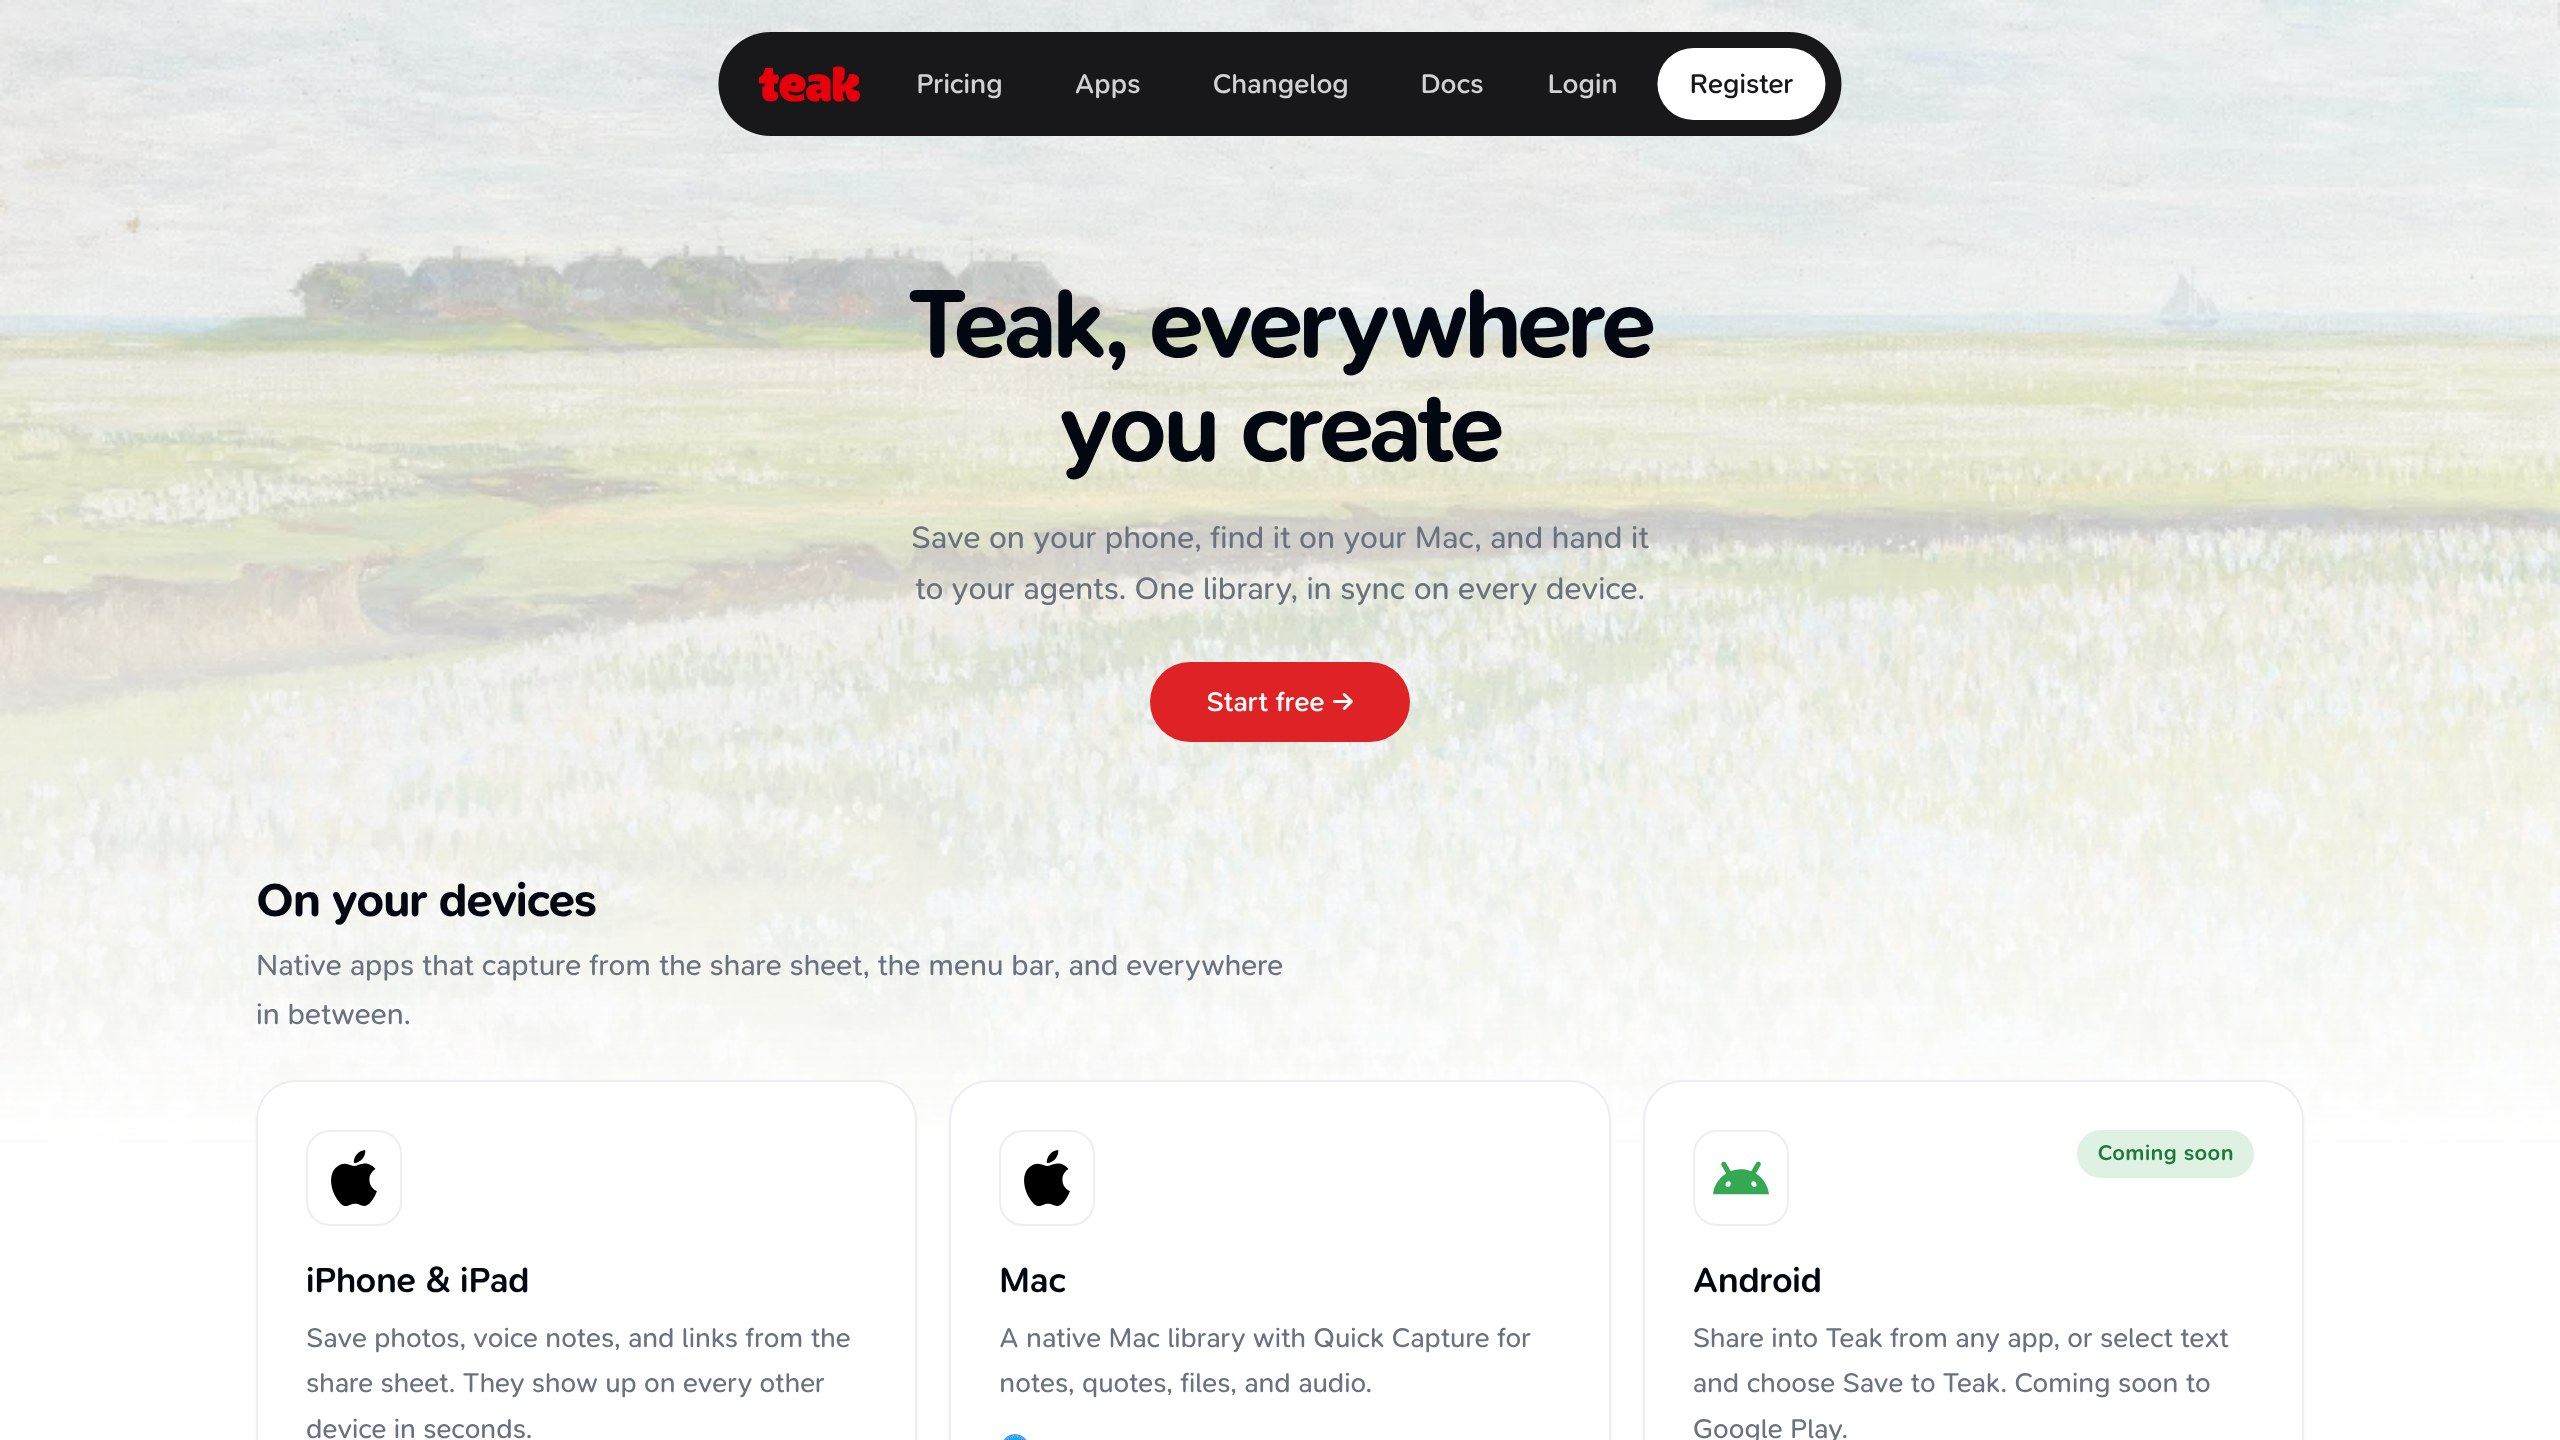
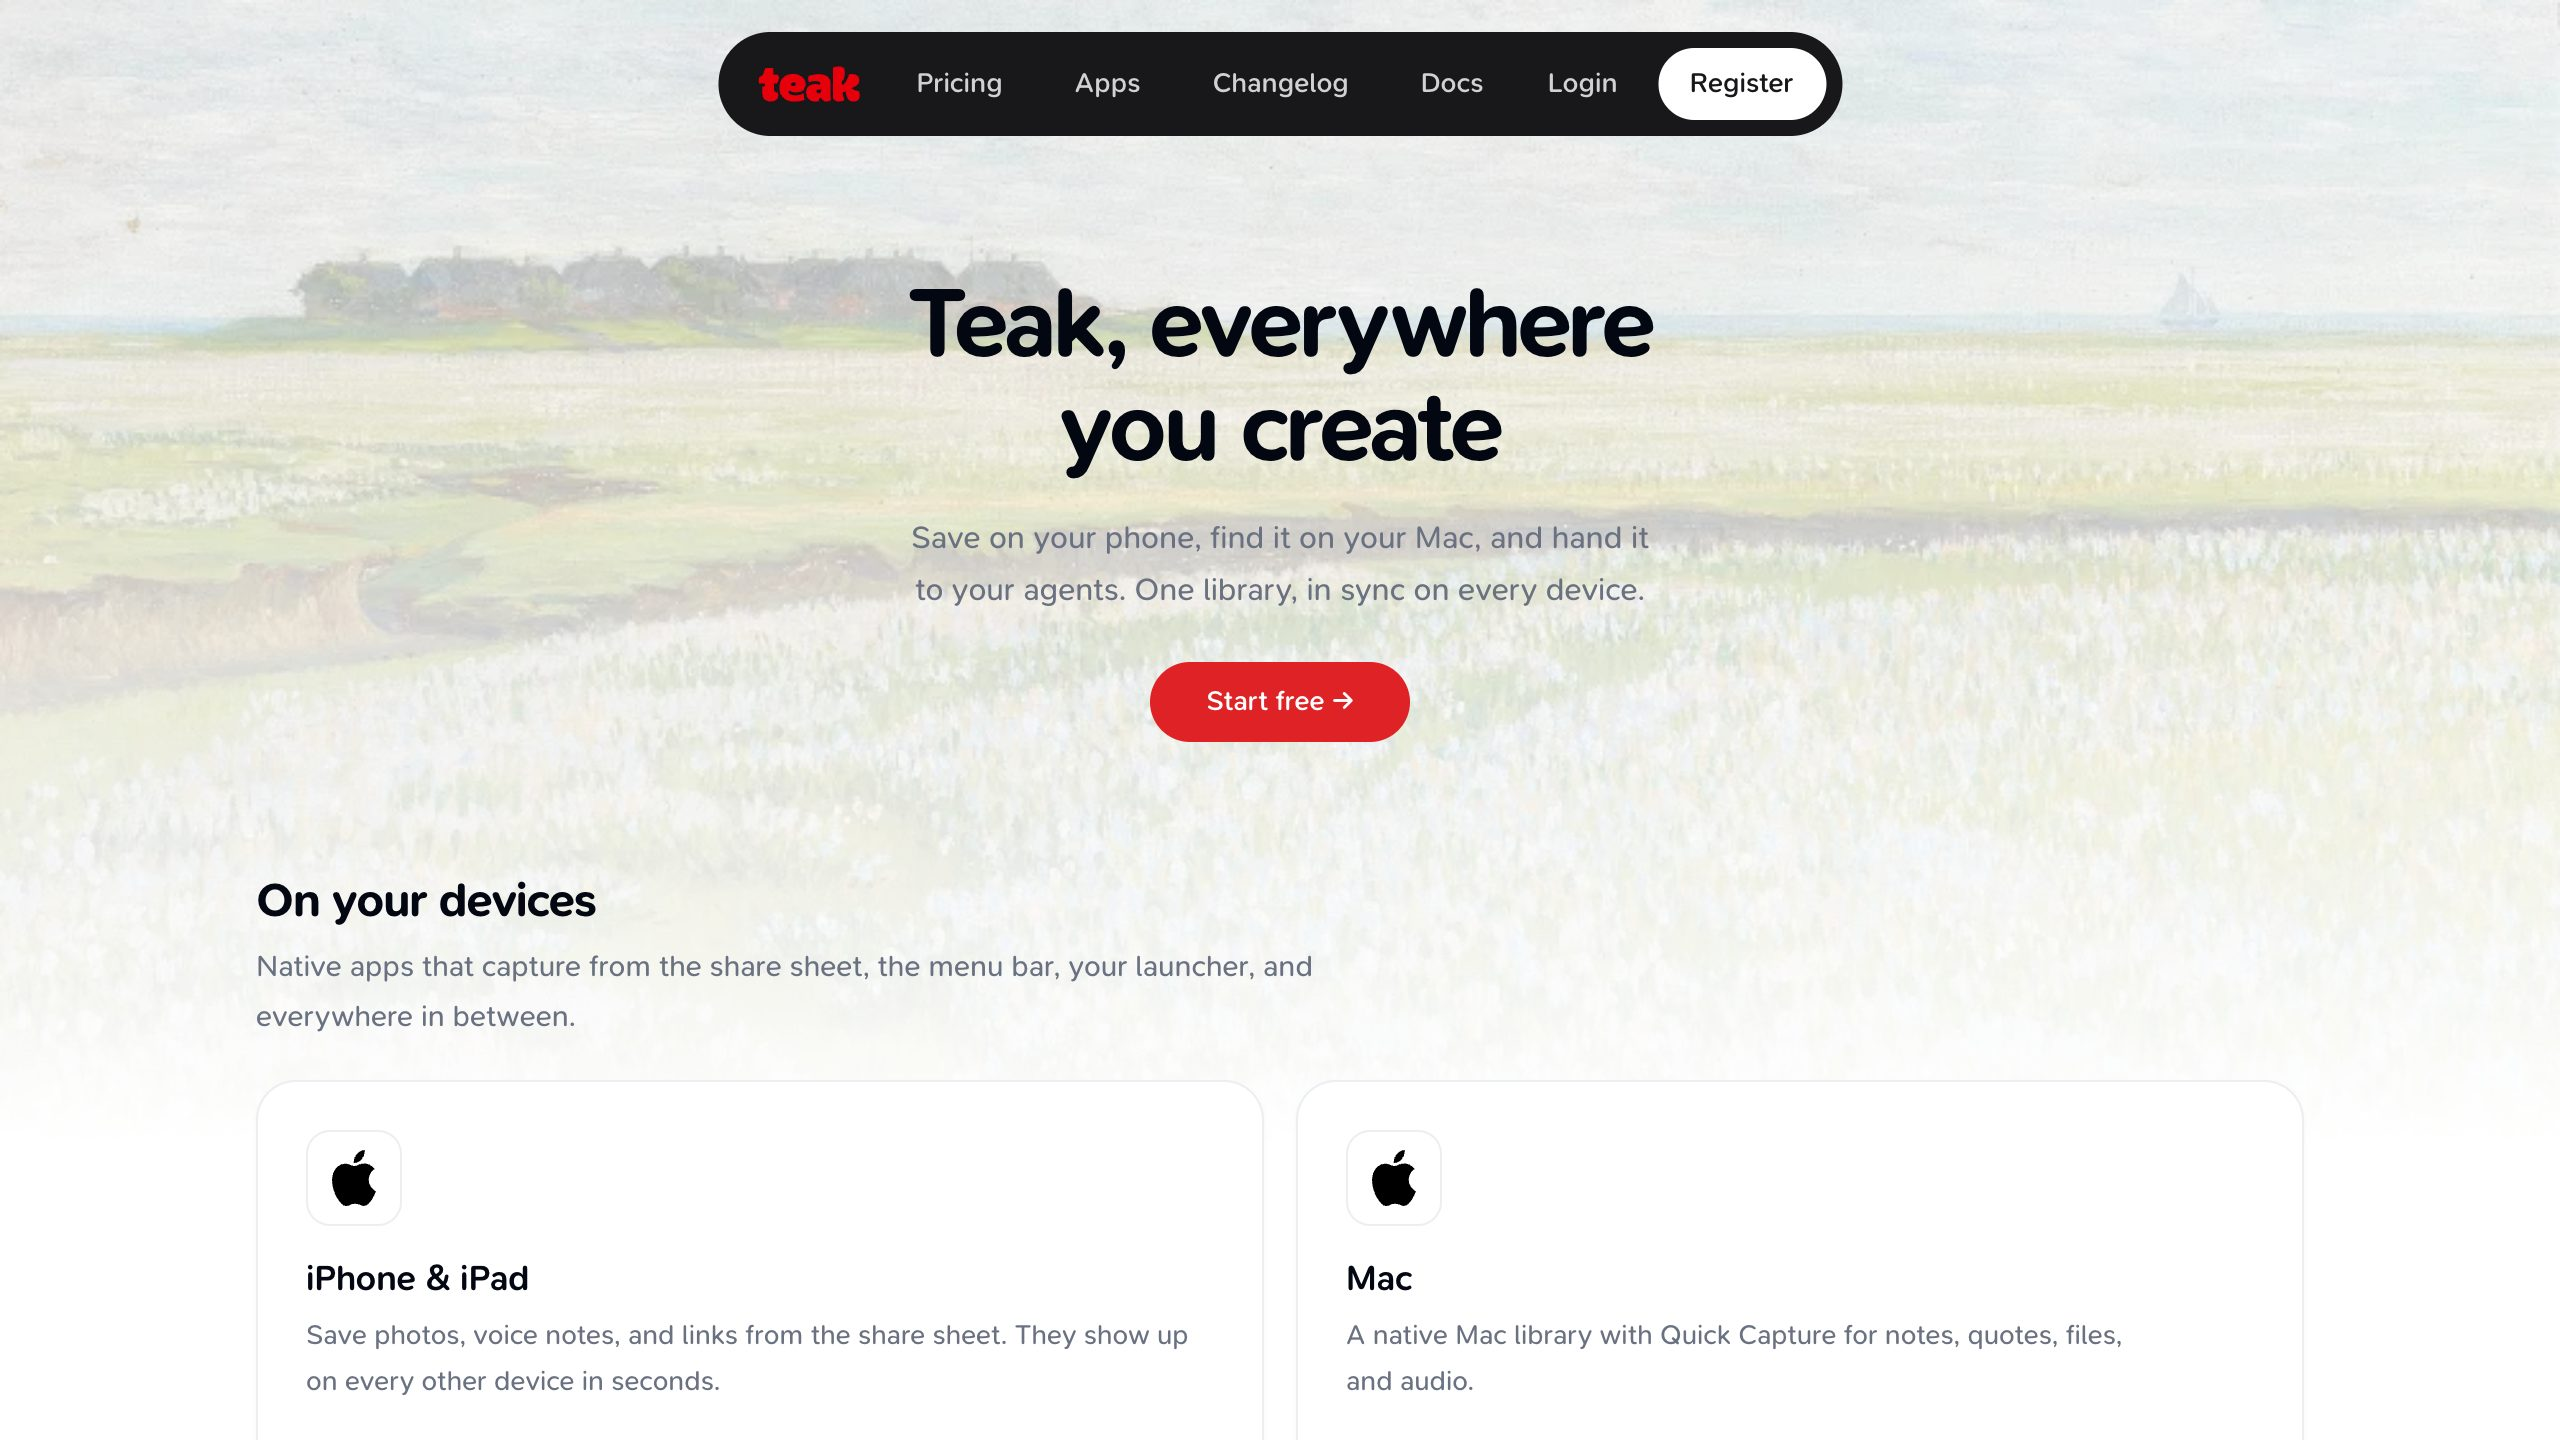
docs(android): changelog, runbook and starter card for the Play launch (#994)
Teak for Android is live on Google Play. The November changelog leads
with it, the release runbook drops the one-time closed test and
production access steps in favor of the release flow that applies now,
and the starter "Apps" card new accounts get no longer says Android is
coming soon, with a fresh screenshot of the Apps page.

diff --git a/packages/convex/card/defaultCards.ts b/packages/convex/card/defaultCards.ts
@@ -354,7 +354,7 @@ export const ONBOARDING_CARDS: OnboardingCardDef[] = [
     ],
     metadataTitle: "Teak Apps",
     metadataDescription:
-      "Save ideas with Teak on Mac, iPhone, and iPad, web, browser extensions, and Raycast, with Android coming soon. Connect your library through the API, MCP, CLI, and agent skills.",
+      "Save ideas with Teak on Mac, iPhone, iPad, Android, web, browser extensions, and Raycast. Connect your library through the API, MCP, CLI, and agent skills.",
     metadata: {
       linkPreview: {
         source: "teak",
@@ -364,7 +364,7 @@ export const ONBOARDING_CARDS: OnboardingCardDef[] = [
         canonicalUrl: "https://teakvault.com/apps",
         title: "Teak Apps",
         description:
-          "Save ideas with Teak on Mac, iPhone, and iPad, web, browser extensions, and Raycast, with Android coming soon. Connect your library through the API, MCP, CLI, and agent skills.",
+          "Save ideas with Teak on Mac, iPhone, iPad, Android, web, browser extensions, and Raycast. Connect your library through the API, MCP, CLI, and agent skills.",
         siteName: "Teak",
         author: "Teak Team",
         publisher: "Teak",

diff --git a/apps/android/release.md b/apps/android/release.md
@@ -8,7 +8,9 @@ The app ID is `com.praveenjuge.teak`. The version name is the root `package.json
 
 1. **Play Console**
    - A personal developer account with identity, Android device and phone verified.
-   - The app entry "Teak" with package `com.praveenjuge.teak`.
+   - The app entry "Teak: Save Inspirations" with package `com.praveenjuge.teak`, live in production since November 2026.
+   - **Production access** is granted, so this never repeats. New personal accounts must first run a closed test with 12 or more testers opted in for 14 days in a row, then apply under Dashboard, "Apply for production", and answer its questions about the test truthfully.
+   - **Trader status** is declared for the account (Trader) and for the app, with the Terms of Service link https://teakvault.com/docs/terms-of-service. The EU requires it. The developer name, address, email and phone show on the public developer profile.
 2. **Upload key**
    - The key lives at `~/.teak-android/teak-upload.jks`, alias `upload`.
    - Its password is in the macOS login Keychain under `teak-android-upload-key`.
@@ -72,21 +74,19 @@ The app ID is `com.praveenjuge.teak`. The version name is the root `package.json
 4. **Internal testing**
    - Play Console, Test and release, Internal testing, Create new release. The testers are the "Teak team" email list, and they install from https://play.google.com/apps/internaltest/4701620222568108073.
    - Upload the AAB and use the release note below.
-   - Roll out to internal testers.
+   - Roll out to internal testers. Internal releases go out at once, without review.
 
-5. **Closed testing**
-   - The first time only: promote the internal release to Closed testing, with the Google Group [teak-android-testers@googlegroups.com](https://groups.google.com/g/teak-android-testers) as its testers. Anyone can join the group.
-   - Testers join the group, then opt in at https://play.google.com/apps/testing/com.praveenjuge.teak and install Teak from Google Play.
-   - Google requires 12 or more testers opted in for 14 days in a row before you can apply for production. Updates during the test don't reset the clock.
+5. **Closed testing (optional beta)**
+   - Add the same bundle from the library to Closed testing - Alpha when you want early feedback. Its testers are the Google Group [teak-android-testers@googlegroups.com](https://groups.google.com/g/teak-android-testers), which anyone can join, and they opt in at https://play.google.com/apps/testing/com.praveenjuge.teak.
 
-6. **Production access**
-   - After 14 days, apply in Play Console, under Dashboard and then "Apply for production".
-   - Answer the questions about the closed test truthfully.
+6. **Production**
+   - Test and release, Production, Create new release. Choose **Add from library** and pick the same bundle, so the version Google reviews is the one you tested.
+   - Use the release note below, then set a staged rollout of 20 percent. Play allows staged rollouts only for updates, so the first release (1.0.92) went to everyone at once.
+   - Save, then open **Publishing overview** and choose **Submit N changes for review**. Managed publishing is off, so the release goes live as soon as Google approves it, usually within a few days.
+   - If Publishing overview says **Cannot send changes for review**, a declaration in App content is out of date (for example trader status or Data safety). Fix it there, then submit again.
+   - After a day with no new crashes in PostHog error tracking or Play's Android vitals, raise the rollout to 100 percent.
 
-7. **Production**
-   - Once approved, create a production release from the same AAB as a staged rollout: 20 percent, then 100 percent after a day with no new crashes in PostHog error tracking.
-
-8. Record the version code you shipped in the GitHub release notes for `v<version>`.
+7. Record the version code you shipped in the GitHub release notes for `v<version>`.
 
 The release note is:
 
